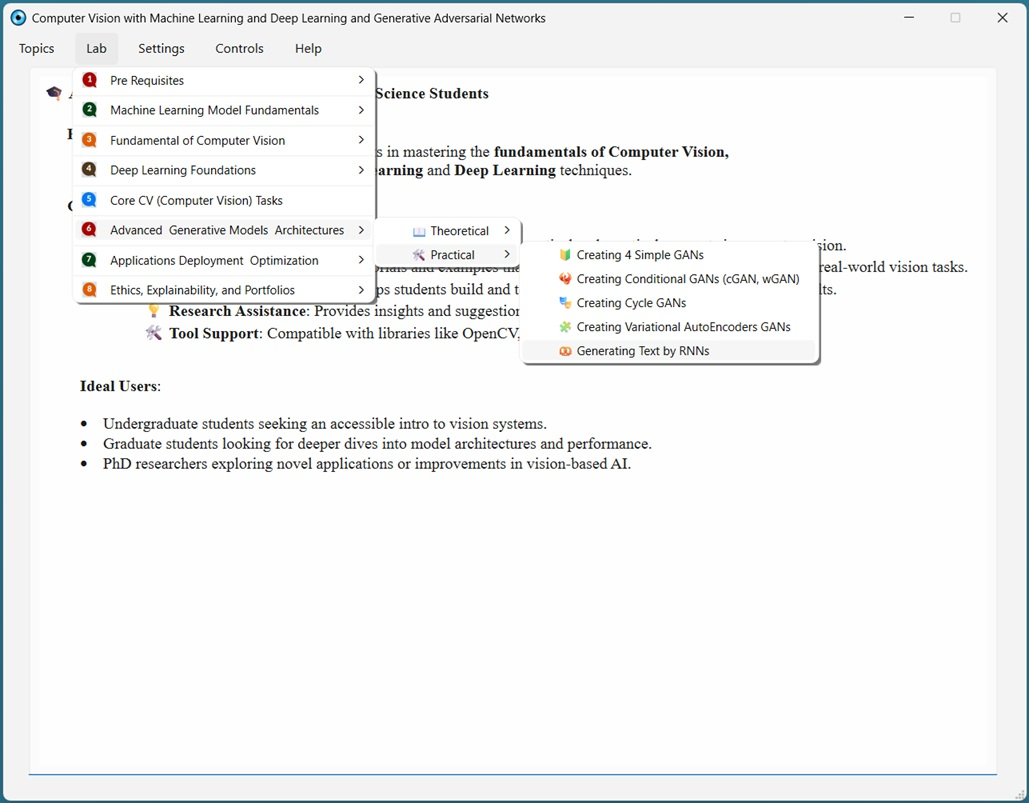
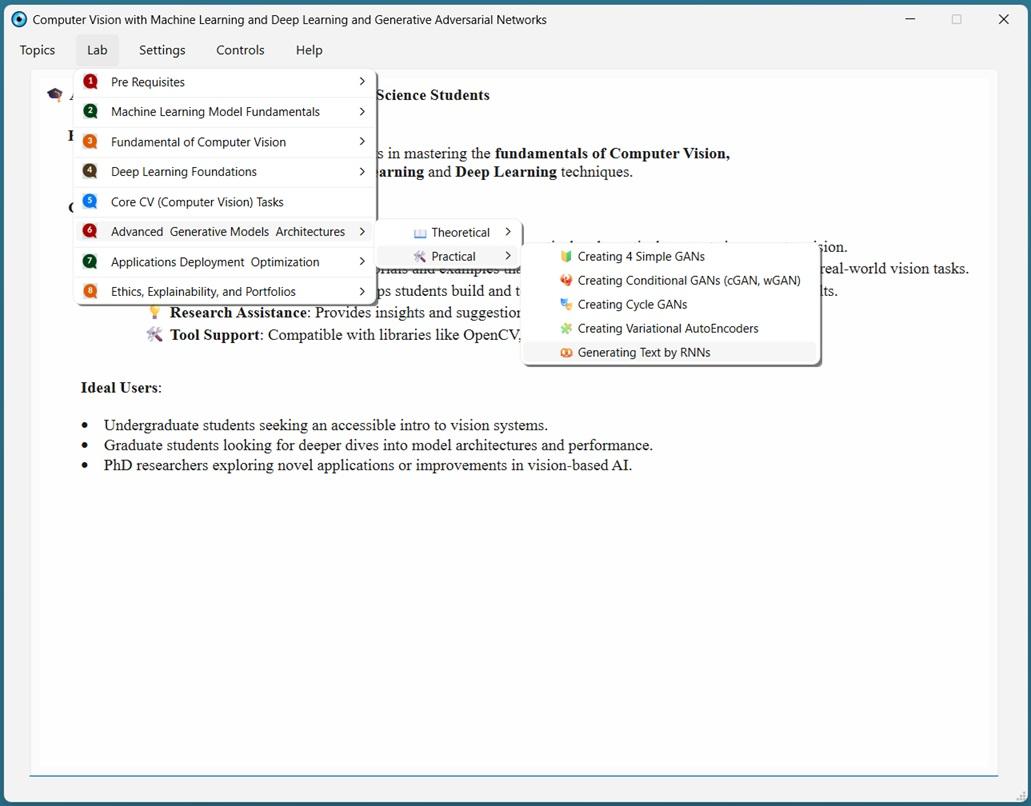
ReadMe.md updated.

diff --git a/app.py b/app.py
@@ -107,7 +107,7 @@ class MainWindow(QMainWindow):
         self.action_SimpleGANs.setText(_translate("MainWindow","🔰 Creating 4 Simple GANs"))
         self.action_ConditionalGANs.setText(_translate("MainWindow","🐦🔥 Creating Conditional GANs (cGAN, wGAN)"))
         self.action_CycleGANs.setText(_translate("MainWindow","🎭 Creating Cycle GANs"))
-        self.action_VariationalAutoEncoders.setText(_translate("MainWindow","🧩 Creating Variational AutoEncoders GANs"))
+        self.action_VariationalAutoEncoders.setText(_translate("MainWindow","🧩 Creating Variational AutoEncoders"))
         self.action_TextGenerationByRNN.setText(_translate("MainWindow","🥨 Generating Text by RNNs"))
 
     def PrepareCancelTraining(self):

diff --git a/README.md b/README.md
@@ -13,9 +13,9 @@
 +  💡 Research Assistance: Provides insights and suggestions for theses or dissertation topics.
 +  🛠 Tool Support: Compatible with libraries like OpenCV, TensorFlow, PyTorch, and scikit-learn.
 
+![UI](/icons/AppUI.jpg)
+
 **Ideal Users:**
 + Undergraduate students seeking an accessible intro to vision systems.             
 + Graduate students looking for deeper dives into model architectures and performance.       
 + PhD researchers exploring novel applications or improvements in vision-based AI.     
-
-![UI](/icons/AppUI.jpg)
